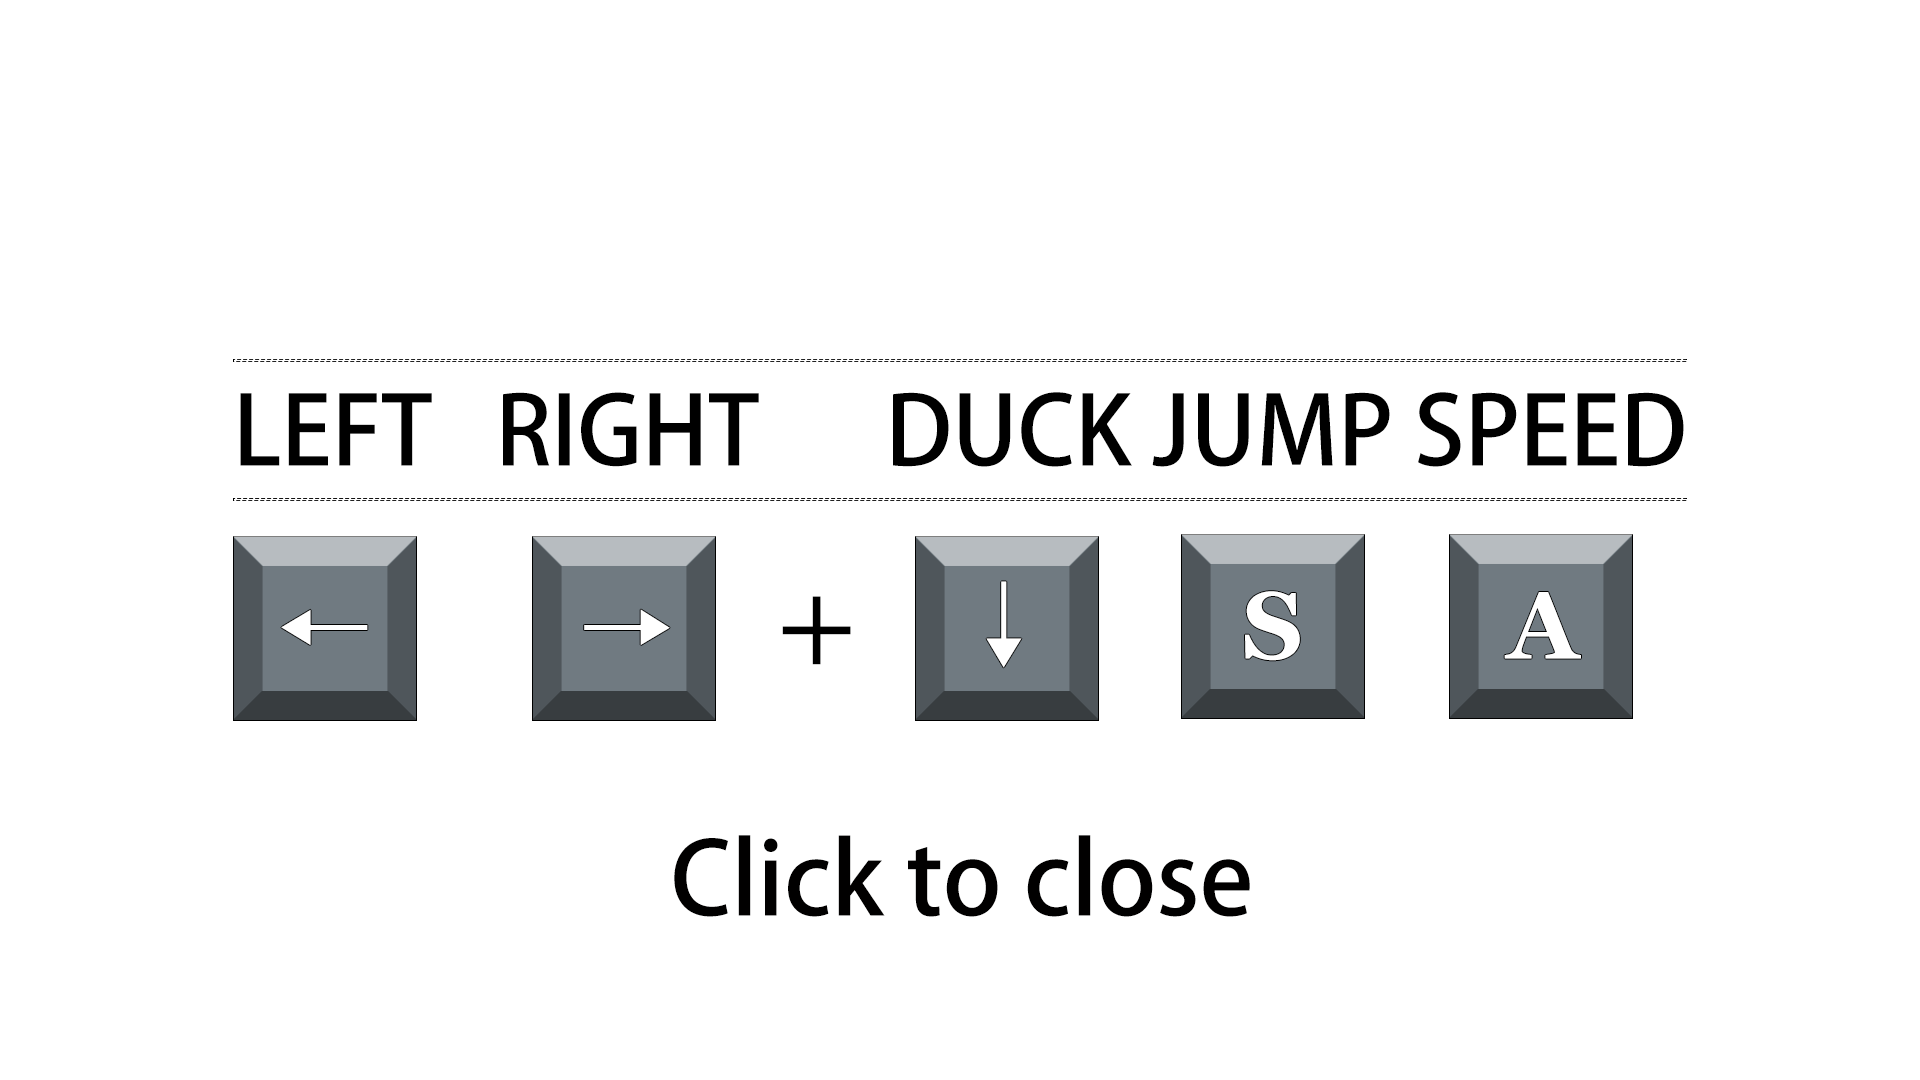
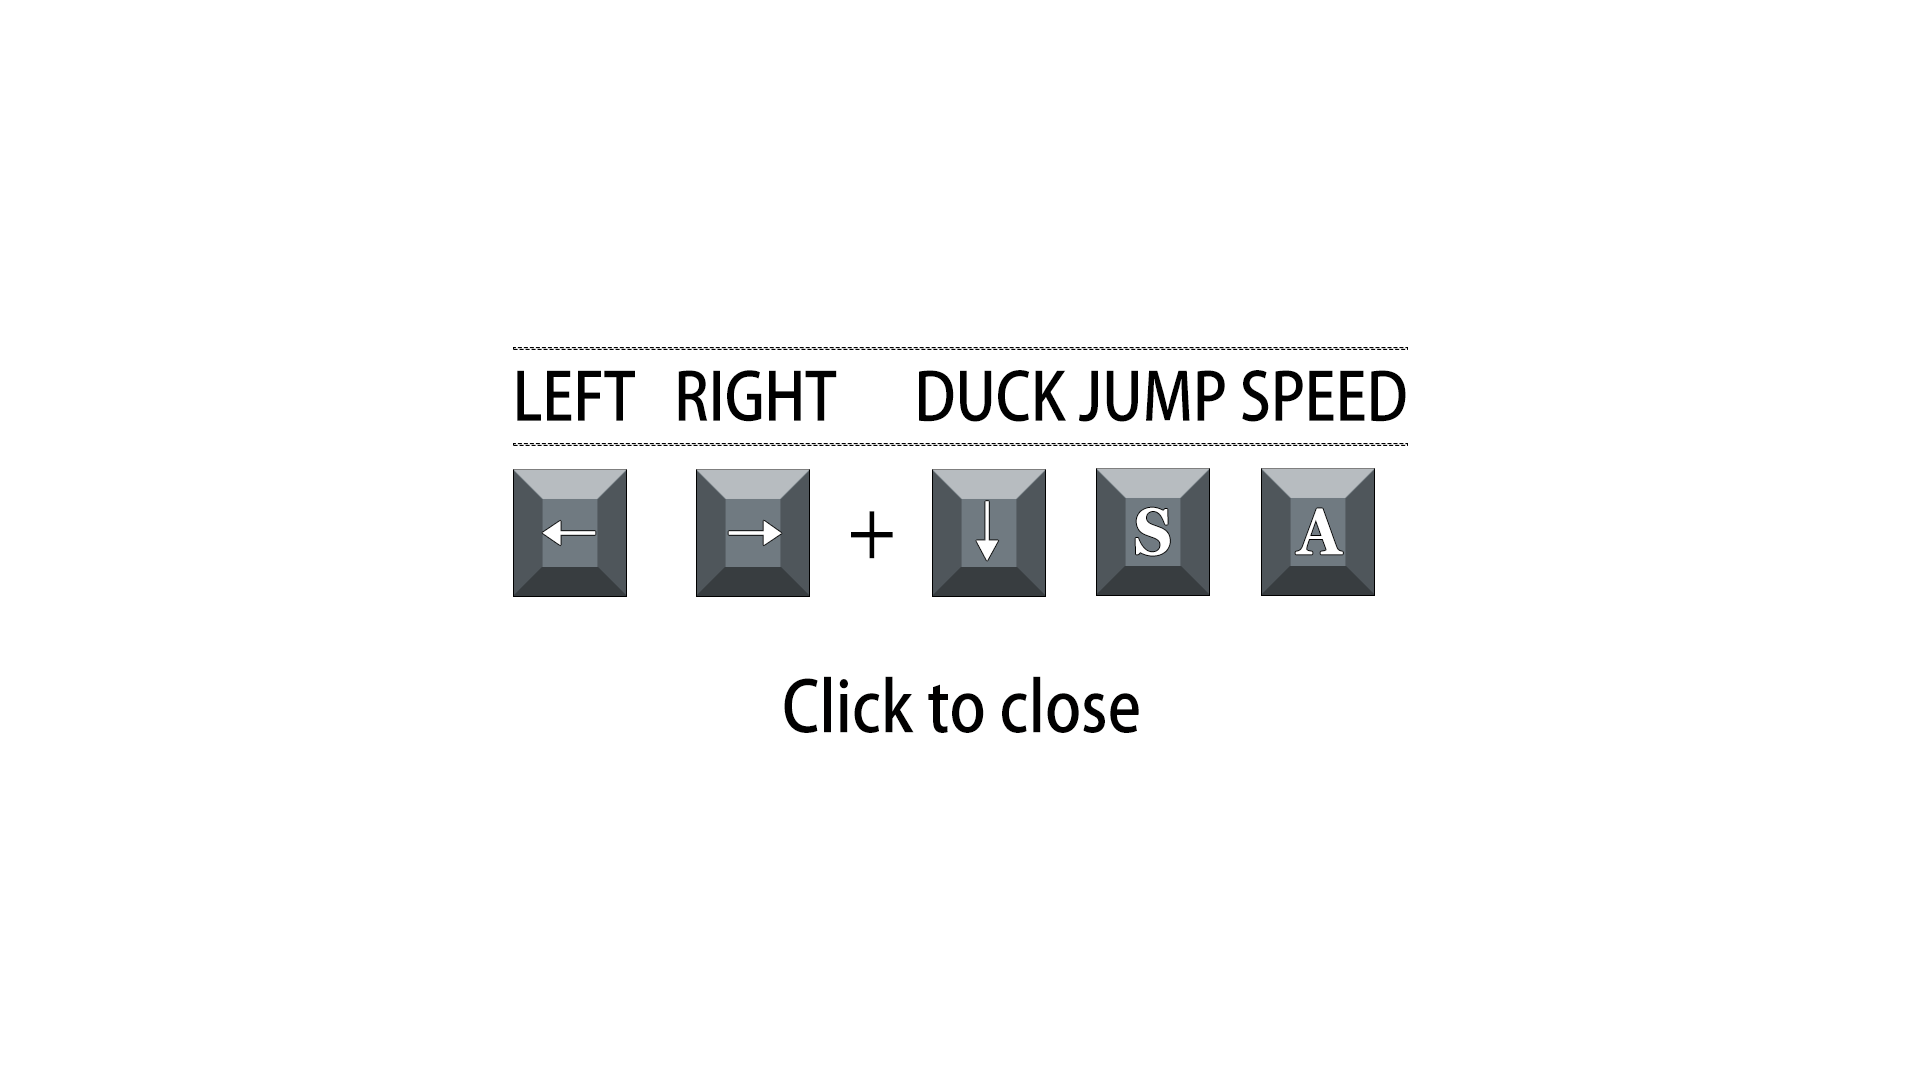
Update the key instruction

diff --git a/templates/GameTutorial.html b/templates/GameTutorial.html
@@ -291,13 +291,13 @@
         </div>
 
 
-        <img style=" height: 90vh;bottom: 3.5vh; left: 0vw;
-            position: absolute;z-index: 900; visibility: visible; width: 100%;" src="../templates/Web/pic.png"
+        <img style=" height: 90vh;bottom: 3.5vh; left: 1vw;
+            position: absolute;z-index: 900; visibility: visible; width: 99%;" src="../templates/Web/pic.png"
           id="windowshow">
-        <img style=" height: 90vh;bottom: 3.5vh; left: 0vw;
-            position: absolute;z-index: 902; visibility: visible; width: 100%;" src="../templates/Web/top.png" id="top">
-        <img style=" height: 90vh;bottom: 3.5vh; left: 0vw;
-            position: absolute;z-index: 902; visibility: visible; width: 100%;" src="../templates/Web/bot.png" id="bot">
+        <img style=" height: 90vh;bottom: 3.5vh; left: 1vw;
+            position: absolute;z-index: 902; visibility: visible; width: 99%;" src="../templates/Web/top.png" id="top">
+        <img style=" height: 90vh;bottom: 3.5vh; left: 1vw;
+            position: absolute;z-index: 902; visibility: visible; width: 99%;" src="../templates/Web/bot.png" id="bot">
         <script>
 
           cheerpjInit();
